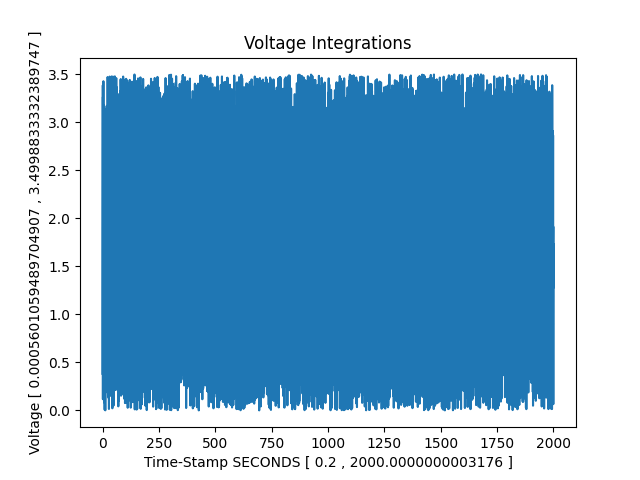
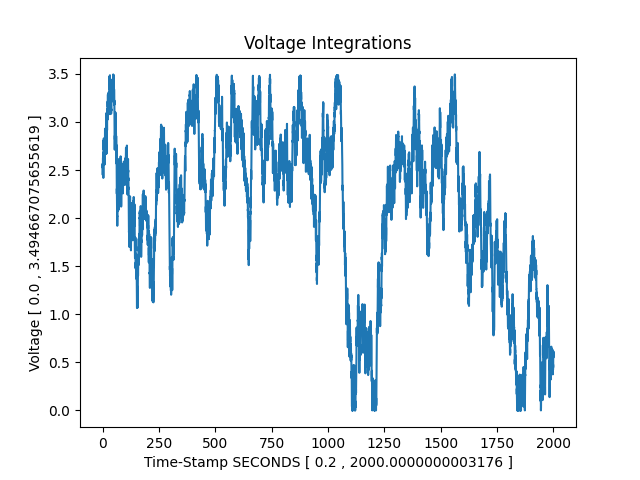
added maxVoltageStep and regnerated EX

diff --git a/GenerateSampleIntegrations.py b/GenerateSampleIntegrations.py
@@ -1,14 +1,23 @@
 
 
 
-def generateSampleIntegrations(fileName : str, integrationCount : int, startTime : float, timeStepRange : tuple, voltageRange : tuple) -> None:
+def generateSampleIntegrations(fileName : str, integrationCount : int, startTime : float, timeStepRange : tuple, voltageRange : tuple, voltageMaxStep : float) -> None:
     import random
     currentTime = startTime
+    currentVoltage = random.uniform(voltageRange[0],voltageRange[1])
     with open('./'+fileName,'w') as openFile:
         for _ in range(integrationCount):
             currentTime += random.uniform(timeStepRange[0],timeStepRange[1])
-            voltage = random.uniform(voltageRange[0],voltageRange[1])
-            line = str(currentTime) + ',' + str(voltage) + '\n'
+            voltageStep = random.uniform(-voltageMaxStep,voltageMaxStep)
+            if (currentVoltage + voltageStep > voltageRange[1]):
+                currentVoltage -= voltageStep
+            elif (currentVoltage + voltageStep < voltageRange[0]):
+                currentVoltage += voltageStep
+            else:
+                currentVoltage += voltageStep
+            currentVoltage = max(voltageRange[0], currentVoltage)
+            currentVoltage = min(voltageRange[1], currentVoltage)
+            line = str(currentTime) + ',' + str(currentVoltage) + '\n'
             openFile.write(line)
         openFile.close()
 
@@ -29,6 +38,8 @@ def main():
     
     voltageMin = 0
     voltageMax = 3.5
+
+    voltageMaxStep = 0.1
     
     for i in range(len(sys.argv)):
         arg = sys.argv[i]
@@ -54,9 +65,12 @@ def main():
         if (arg == '-voltageMax'):
             voltageMax = float(sys.argv[i + 1])
 
+        if (arg == '-voltageMaxStep'):
+            voltageMaxStep = float(sys.argv[i + 1])
+
     timeStepRange = (timeStepMin,timeStepMax)
     voltageRange = (voltageMin,voltageMax)    
-    generateSampleIntegrations(filePath, integrationCount, startTime, timeStepRange, voltageRange)
+    generateSampleIntegrations(filePath, integrationCount, startTime, timeStepRange, voltageRange, voltageMaxStep)
 
 
 

diff --git a/README.md b/README.md
@@ -35,6 +35,7 @@ python.exe .\GenerateSampleIntegrations.py
 | timeStepMax      | 0.2                    | float          | -timeStepMax 0.3     |
 | voltageMin       | 0                      | float          | -voltageMin 0.1       |
 | voltageMax       | 3.5                    | float          | -voltageMax 5         |
+| voltageMaxStep   | 0.1                    | float          | -voltageMaxStep 0.2   |
 
 ---
 
